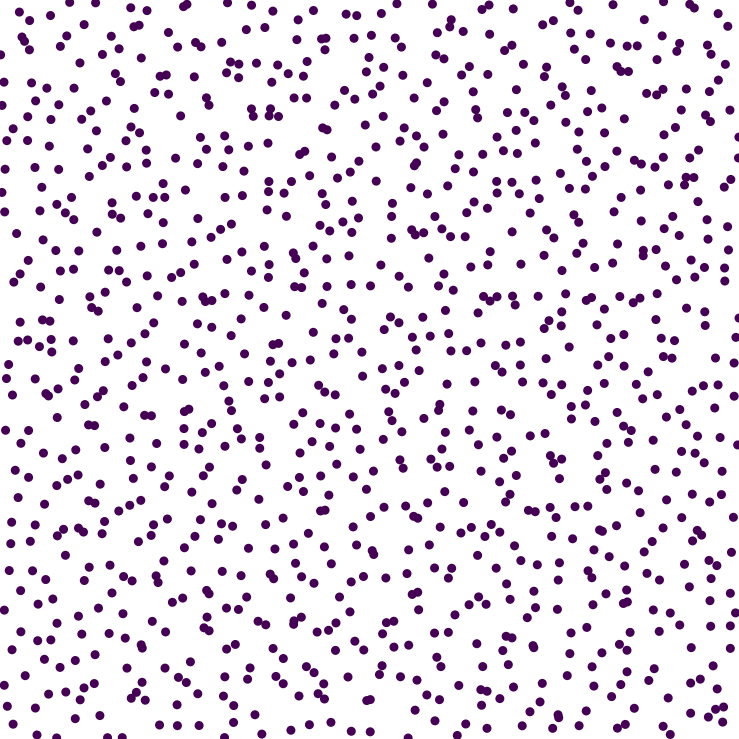
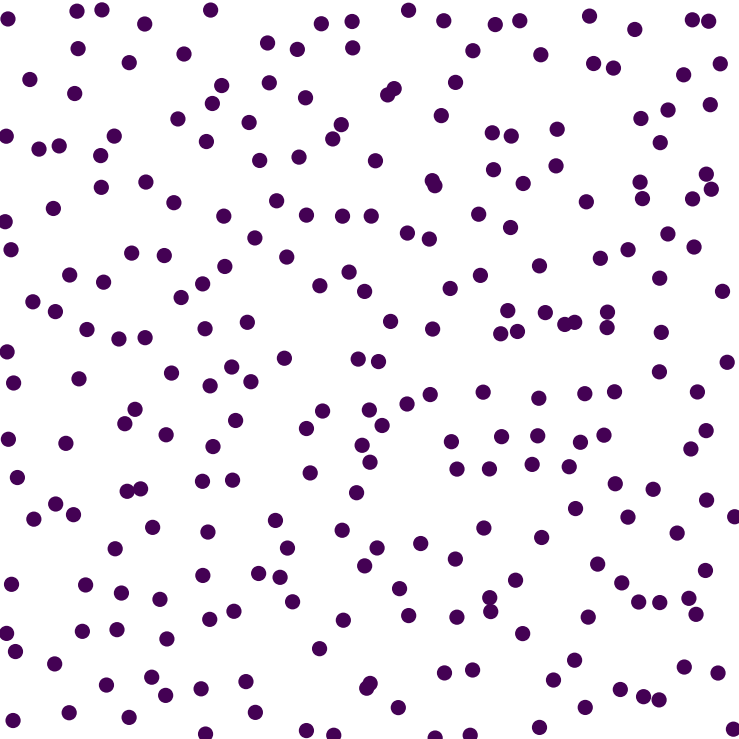
merge

Changed region(s): [[0.0, 0.0, 1.0, 1.0], [0.9959, 0.1556, 1.0, 0.2179], [0.9959, 0.8092, 1.0, 0.8403]]

diff --git a/plots/point.py b/plots/point.py
@@ -17,18 +17,19 @@ def plot_point_np(pts, cls, size, title):
 
 
 def main():
-    N = 1024
+    N = 256
+    size = 20
     pts = np.random.rand(N, 2)
     cls = np.zeros(N, dtype=np.int32)
-    plot_point_np(pts, cls, 5, 'random')
+    plot_point_np(pts, cls, size, 'random')
 
     pts = generate_possion_dis(N, 0.01, 0.99)
     cls = np.zeros(N, dtype=np.int32)
-    plot_point_np(pts, cls, 5, 'poisson')
+    plot_point_np(pts, cls, size, 'poisson')
 
     pts = jitter_sampler(N)
     cls = np.zeros(N, dtype=np.int32)
-    plot_point_np(pts, cls, 5, 'jitter')
+    plot_point_np(pts, cls, size, 'jitter')
 
 
 if __name__ == '__main__':
